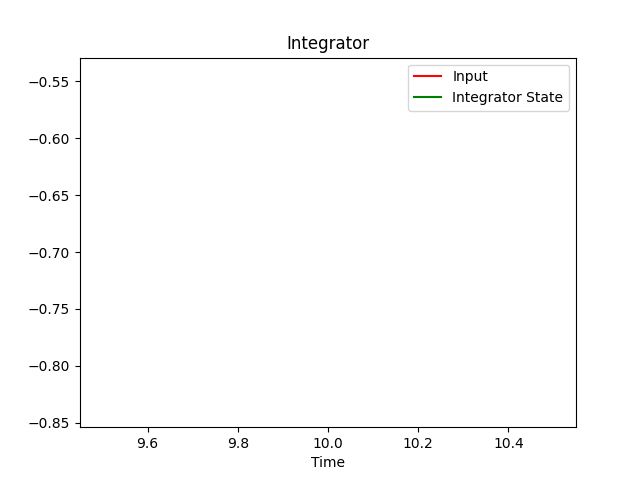
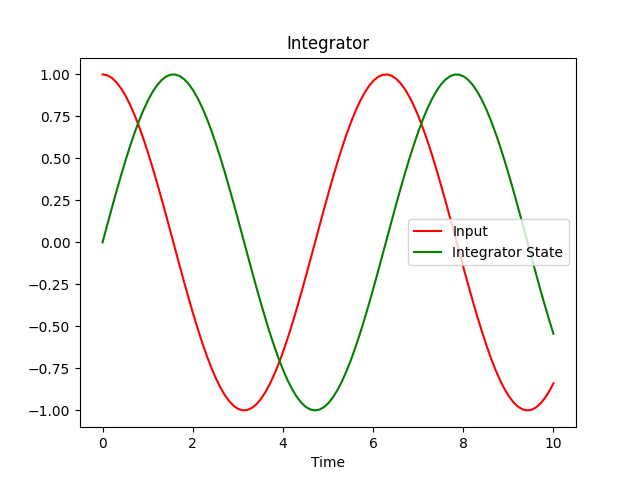
Added a schematic and made some information explicit in the integrator tutorial.

diff --git a/docs/guide/01_integrator.rst b/docs/guide/01_integrator.rst
@@ -11,22 +11,39 @@ After this exercise, you will know
 - how to run a simulation of the system and capture the results, and
 - how to access simulation results.
 
-An integrator is a very simple dynamic element with a single state
-:math:`x\left(t\right)`.
-The derivative :math:`\frac{d}{dt} x\left(t\right)` of that state is just the
-input into the system.
-In addition to the derivative, we need to specify the initial value of the state
-:math:`x\left(t_0\right)`:
+Integrator Theory
+-----------------
+
+.. _integrator_schematic:
+.. figure:: 01_integrator_schematic.svg
+    :align: center
+    :alt: Schematic of the integrator
+
+    Schematic of the integrator
+
+We will build the structure shown in :numref:`integrator_schematic`.
+An integrator is a very simple dynamic element that accepts an input
+:math:`u\left(t\right)` and for times :math:`t \geq t_0` provides the integral
+of the input over time, :math:`x_0 + \int_{t_0}^t u\left(t\right) dt`, as
+output.
+It has a single state :math:`x\left(t\right)` with an initial value `x_0`
+and the input as its derivative over time:
 
 .. math::
     x\left(t_0\right) &= x_0 \\
     \frac{d}{dt} x\left(t\right) &= u\left(t\right)
+
+Preparations
+------------
 
 To view our results, we will use ``matplotlib``, so we install that first:
 
 .. code-block:: bash
 
     $ pip install matplotlib
+
+Coding the Model
+----------------
 
 Now let us code our model.
 We start by importing the relevant declarations:
@@ -38,9 +55,6 @@ We start by importing the relevant declarations:
 
     from modypy.model import System, State, signal_function
     from modypy.simulation import Simulator, SimulationResult
-
-Defining the System
--------------------
 
 All models in ``modypy`` are contained in a
 :class:`System <modypy.model.system.System>`, so we need to create an instance:
@@ -61,12 +75,20 @@ turn it into a signal:
         """Calculate the value of the input signal"""
         return np.cos(system_state.time)
 
-In our case, the signal is defined by a simple function that accepts the
-*system state*.
-That system state provides the current time, i.e., the time at which the signal
-is being evaluated.
-That time may be a scalar (when evaluating the signal at a single point in time)
-or a vector of times (when evaluating the signal at multiple points in time).
+Signals are defined by callables that accept the *system state* as their only
+parameter.
+System state objects implement a certain protocol, so that whenever we have a
+system state object, we can use it in the same way.
+For example, system state objects have a property ``time``.
+The value of that property can either be
+
+- a *scalar*, in which case the system state object represents the state of the
+  system at a single point in time, or it can be
+- a *vector*, in which case the system state object represents the state of the
+  system at multiple points in time.
+
+In our case, :func:`numpy.cos` will handle both cases, and return either the
+cosine of the single number, or a vector of cosines of all the numbers given.
 
 However, signals in modypy are actually instances of the
 :class:`Signal <modypy.model.ports.Signal>` class, which provides some

diff --git a/CHANGELOG.md b/CHANGELOG.md
@@ -4,6 +4,11 @@ All notable changes to this project will be documented in this file.
 The format is based on [Keep a Changelog](https://keepachangelog.com/en/1.0.0/),
 and this project adheres to [Semantic Versioning](https://semver.org/spec/v2.0.0.html).
 
+## [Unreleased]
+### Changed
+- Added a schematic and made some information more explicit in the integrator
+  tutorial.
+
 ## [3.0.0rc2 - 2021-05-31]
 ### Changed
 - Updated the documentation regarding the changes in the default shape of
